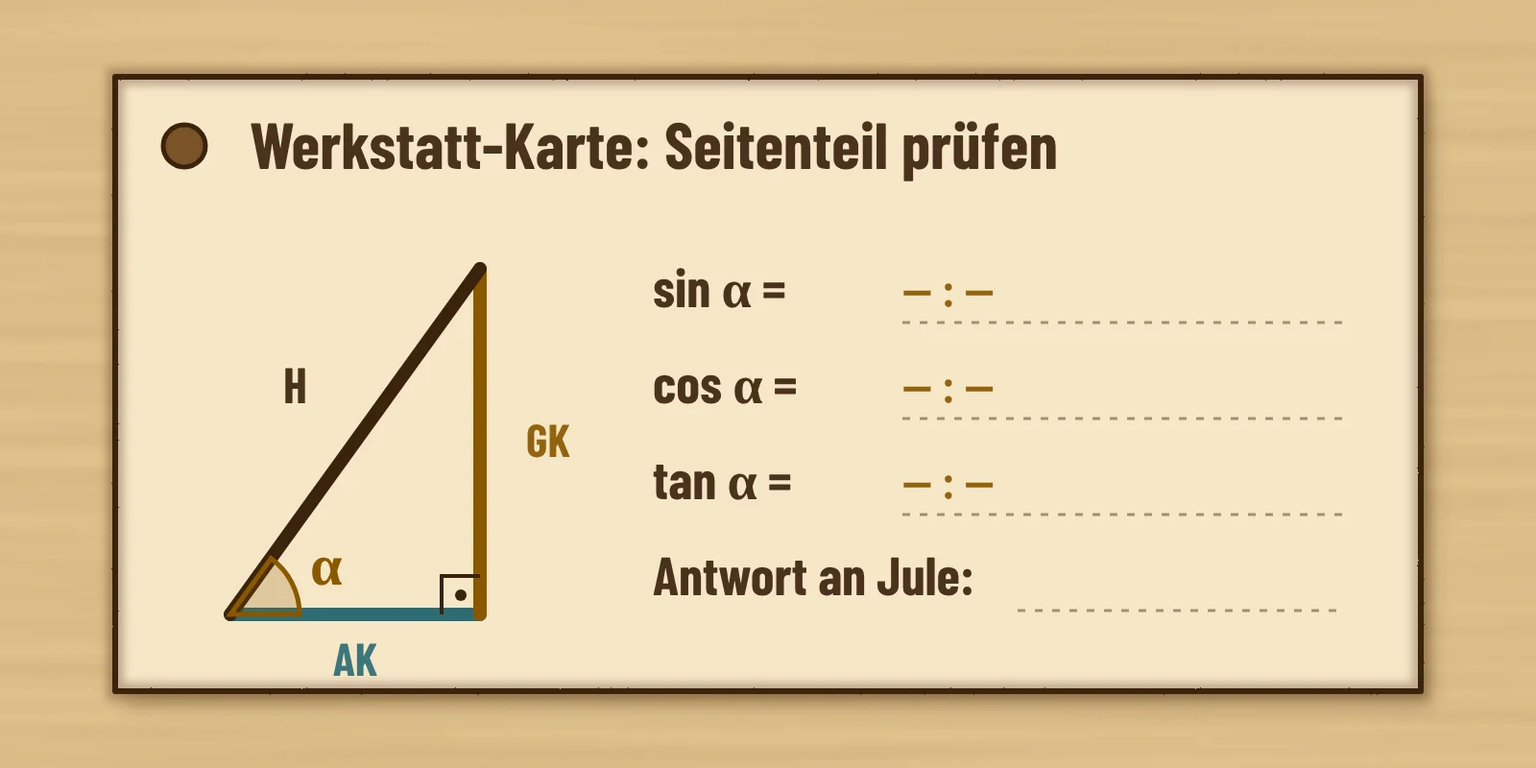
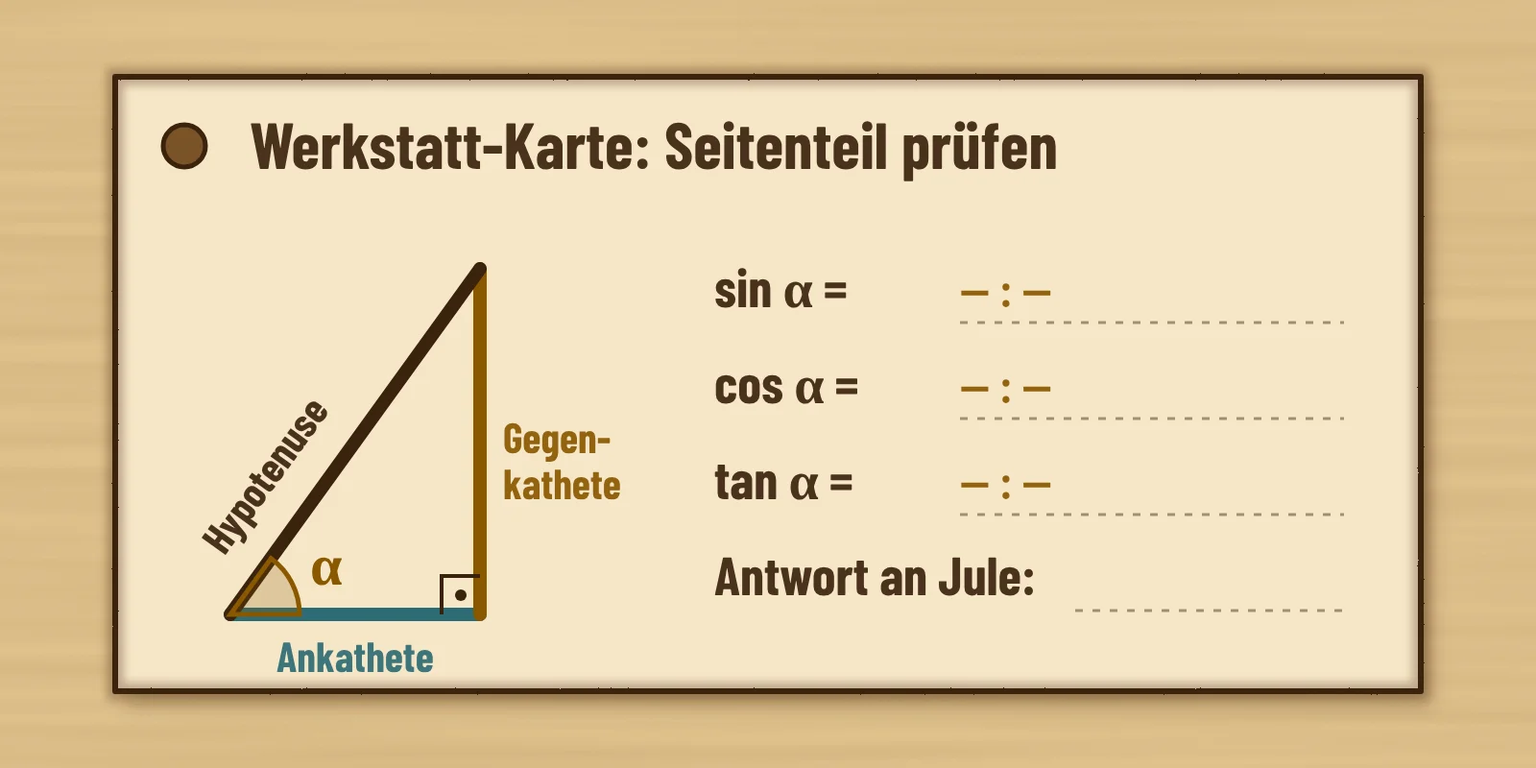
Lernsituationen: Begriffe ausformulieren, Formeln mit Abstand, Video nicht am Beispiel
Handyständer: Sinus, Kosinus und Tangens werden im Beispiel in ganzen Sätzen eingeführt,
Formeln, Hilfen, Lösungswege und Werkstatt-Karte ohne Abkürzungen GK, AK, H; größere Skizze.
Alle Lernsituationen (seiten.css): mehr Abstand zwischen abgesetzten Formeln in Beispielen
und Merkkästen ohne Scrollleiste, Lernvideo mit Abstand unter dem Rechenbeispiel.
Skill und CLAUDE.md um die Regeln ergänzt.

Claude-Session: https://claude.ai/code/session_01Aw7YPEBbVJPrNvzUyhnjTJ

diff --git a/mathe-trainer/src/pages/trigonometrie/sinus_kosinus_tangens_einstieg/HandystaenderEinstieg.tsx b/mathe-trainer/src/pages/trigonometrie/sinus_kosinus_tangens_einstieg/HandystaenderEinstieg.tsx
@@ -16,7 +16,7 @@ import {
 } from '../../lineare_funktionen/lernsituation_kit/seiten';
 import { Bilanz } from '../../lineare_funktionen/lernsituation_kit/punkte';
 import { Kriterien, standardKriterien } from '../../finanzmathe/zins_kit/zins_kit';
-import Dreieck, { RollenLegende } from './Dreieck';
+import Dreieck from './Dreieck';
 import LaserVorschau, { istTreffer, winkelVon, type Versuch } from './LaserVorschau';
 import ZuschnittSpiel from './ZuschnittSpiel';
 import titelBild from './bilder/handystaender-titel.webp';
@@ -32,7 +32,7 @@ import './handystaender.css';
 // In „Problem lösen“ prüfen sie Jules Prototyp ohne Geodreieck: drei Seitenverhältnisse bilden, benennen und mit dem Taschenrechner vergleichen.
 // Aha: Nicht die Größe bestimmt den Winkel, sondern das Seitenverhältnis. Genau dieses Verhältnis liefert der Taschenrechner:
 // tan(70°) ≈ 2,75 ist das Verhältnis Rücken : Boden, das in der Vorschau gesucht war.
-// Lernprodukt analog: Werkstatt-Karte im Heft (beschriftete Skizze des Seitenteils mit H, GK, AK, drei Verhältnissen und Antwort an Jule).
+// Lernprodukt analog: Werkstatt-Karte im Heft (beschriftete Skizze des Seitenteils mit Hypotenuse, Gegenkathete, Ankathete, drei Verhältnissen und Antwort an Jule).
 // Identität: Themenfarbe Ocker (Sperrholz), Symbol Tablet, Titelbild Handyständer mit Bauteilen, Leitobjekt das Seitenteil des Ständers.
 // Bildwelt Bauplan / Lasercut: Titelbild und Sachbilder sind gerenderte WebP-Dateien aus bilder-quelle/handystaender-*.bild.html
 // (Bausteine in bilder-quelle/_lasercut.js); Vorschau, Skizzen und Spiel bleiben Inline-SVG.
@@ -77,36 +77,62 @@ const BSP_SCHRITTE: { title: ReactNode; body: ReactNode }[] = [
   {
     title: (
       <>
-        Seiten vom Winkel <M>\alpha</M> aus benennen
+        Die Seiten vom Winkel <M>\alpha</M> aus benennen
       </>
     ),
     body: (
       <>
+        <p>
+          In einem rechtwinkligen Dreieck haben die Seiten feste Namen. Welche Seite welchen Namen bekommt, hängt davon ab, von welchem
+          Winkel aus du schaust. Hier schaust du vom Winkel <M>\alpha</M> unten vorne aus:
+        </p>
         <div className="hs-skizze hs-skizze-klein">
           <Dreieck
             boden={8}
             ruecken={15}
             rollen
-            labels={{ boden: 'AK = 8 cm', ruecken: 'GK = 15 cm', schraeg: 'H = 17 cm' }}
+            labels={{ boden: 'Ankathete 8 cm', ruecken: 'Gegenkathete 15 cm', schraeg: 'Hypotenuse 17 cm' }}
+            breite={620}
             label="Seitenteil 8 cm, 15 cm, 17 cm. Vom Winkel Alpha aus: Hypotenuse 17 cm, Gegenkathete 15 cm, Ankathete 8 cm."
           />
         </div>
-        <RollenLegende winkel="α" />
-        <p>
-          Die Hypotenuse liegt dem rechten Winkel gegenüber: die Auflage, 17 cm. Die Gegenkathete liegt <M>\alpha</M> gegenüber: der Rücken,
-          15 cm. Die Ankathete liegt an <M>\alpha</M> an: der Boden, 8 cm.
-        </p>
+        <ul className="hs-begriffe">
+          <li>
+            Die <strong>Hypotenuse</strong> ist die längste Seite. Sie liegt dem rechten Winkel gegenüber: die Auflage mit 17 cm.
+          </li>
+          <li>
+            Die <strong>Gegenkathete</strong> liegt dem Winkel <M>\alpha</M> gegenüber: der Rücken mit 15 cm.
+          </li>
+          <li>
+            Die <strong>Ankathete</strong> liegt direkt am Winkel <M>\alpha</M> an, ist aber nicht die Hypotenuse: der Boden mit 8 cm.
+          </li>
+        </ul>
       </>
     ),
   },
   {
-    title: 'Die drei Seitenverhältnisse bilden',
+    title: 'Drei Seiten durcheinander teilen',
     body: (
       <>
-        <p>Jedes Verhältnis hat einen eigenen Namen:</p>
-        <MB>{'\\sin(\\alpha) = \\dfrac{\\text{GK}}{\\text{H}} = \\dfrac{15}{17} \\approx 0{,}88'}</MB>
-        <MB>{'\\cos(\\alpha) = \\dfrac{\\text{AK}}{\\text{H}} = \\dfrac{8}{17} \\approx 0{,}47'}</MB>
-        <MB>{'\\tan(\\alpha) = \\dfrac{\\text{GK}}{\\text{AK}} = \\dfrac{15}{8} \\approx 1{,}88'}</MB>
+        <p>
+          Teilst du zwei Seiten durcheinander, bekommst du ein Seitenverhältnis. In der Vorschau hast du schon eines benutzt: Rücken durch
+          Boden. Im rechtwinkligen Dreieck sind drei Verhältnisse so wichtig, dass sie eigene Namen haben:{' '}
+          <strong>Sinus</strong>, <strong>Kosinus</strong> und <strong>Tangens</strong>. Man schreibt sie kurz <M>{'\\sin'}</M>,{' '}
+          <M>{'\\cos'}</M> und <M>{'\\tan'}</M>. <M>{'\\sin(\\alpha)'}</M> liest man „Sinus von Alpha“.
+        </p>
+        <p>
+          Der <strong>Sinus</strong> von <M>\alpha</M> ist die Gegenkathete geteilt durch die Hypotenuse:
+        </p>
+        <MB>{'\\sin(\\alpha) = \\dfrac{\\text{Gegenkathete}}{\\text{Hypotenuse}} = \\dfrac{15}{17} \\approx 0{,}88'}</MB>
+        <p>
+          Der <strong>Kosinus</strong> von <M>\alpha</M> ist die Ankathete geteilt durch die Hypotenuse:
+        </p>
+        <MB>{'\\cos(\\alpha) = \\dfrac{\\text{Ankathete}}{\\text{Hypotenuse}} = \\dfrac{8}{17} \\approx 0{,}47'}</MB>
+        <p>
+          Der <strong>Tangens</strong> von <M>\alpha</M> ist die Gegenkathete geteilt durch die Ankathete. Das ist genau dein Verhältnis
+          Rücken durch Boden aus der Vorschau:
+        </p>
+        <MB>{'\\tan(\\alpha) = \\dfrac{\\text{Gegenkathete}}{\\text{Ankathete}} = \\dfrac{15}{8} \\approx 1{,}88'}</MB>
       </>
     ),
   },
@@ -115,8 +141,8 @@ const BSP_SCHRITTE: { title: ReactNode; body: ReactNode }[] = [
     body: (
       <>
         <p>
-          Stelle den Taschenrechner auf Grad (Anzeige D oder DEG). Die Tasten sin, cos und tan liefern dir für jeden Winkel das passende
-          Verhältnis, z. B. für <M>{'62^\\circ'}</M>:
+          Der Taschenrechner kennt diese drei Verhältnisse für jeden Winkel. Stelle ihn auf Grad (Anzeige D oder DEG). Tippe dann zum
+          Beispiel die Taste sin und danach 62 ein. Für <M>{'62^\\circ'}</M> zeigt er:
         </p>
         <MB>{'\\sin(62^\\circ) \\approx 0{,}88'}</MB>
         <MB>{'\\cos(62^\\circ) \\approx 0{,}47'}</MB>
@@ -134,10 +160,10 @@ const BSP_SCHRITTE: { title: ReactNode; body: ReactNode }[] = [
 const LOESUNG_KERN = (
   <Loesungsweg
     schritte={[
-      { titel: 'Seiten von α aus benennen', text: 'Hypotenuse H = 17,6 cm (Auflage), Gegenkathete GK = 16,5 cm (Rücken), Ankathete AK = 6 cm (Boden).' },
-      { titel: 'Sinus bilden', tex: '\\sin(\\alpha) = \\dfrac{\\text{GK}}{\\text{H}} = \\dfrac{16{,}5}{17{,}6} \\approx 0{,}94' },
-      { titel: 'Kosinus bilden', tex: '\\cos(\\alpha) = \\dfrac{\\text{AK}}{\\text{H}} = \\dfrac{6}{17{,}6} \\approx 0{,}34' },
-      { titel: 'Tangens bilden', tex: '\\tan(\\alpha) = \\dfrac{\\text{GK}}{\\text{AK}} = \\dfrac{16{,}5}{6} = 2{,}75' },
+      { titel: 'Seiten von α aus benennen', text: 'Hypotenuse 17,6 cm (Auflage), Gegenkathete 16,5 cm (Rücken), Ankathete 6 cm (Boden).' },
+      { titel: 'Sinus bilden', tex: '\\sin(\\alpha) = \\dfrac{\\text{Gegenkathete}}{\\text{Hypotenuse}} = \\dfrac{16{,}5}{17{,}6} \\approx 0{,}94' },
+      { titel: 'Kosinus bilden', tex: '\\cos(\\alpha) = \\dfrac{\\text{Ankathete}}{\\text{Hypotenuse}} = \\dfrac{6}{17{,}6} \\approx 0{,}34' },
+      { titel: 'Tangens bilden', tex: '\\tan(\\alpha) = \\dfrac{\\text{Gegenkathete}}{\\text{Ankathete}} = \\dfrac{16{,}5}{6} = 2{,}75' },
       { titel: 'Mit dem Taschenrechner vergleichen', tex: '\\tan(70^\\circ) \\approx 2{,}75', text: 'Auch sin(70°) ≈ 0,94 und cos(70°) ≈ 0,34 passen. Der Prototyp hat also 70°.' },
     ]}
   />
@@ -333,9 +359,12 @@ export default function HandystaenderEinstieg({ onBack, onPractice }: { onBack: 
             <p className="sl-fokus-titel">Deine Aufgabe: Prüfe den Prototyp ohne Geodreieck</p>
             <p>
               Jule hat selbst ein Seitenteil geschnitten: Boden 6 cm, Rücken 16,5 cm, Auflage 17,6 cm. Ein Geodreieck gibt es in der Werkstatt
-              nicht. Bilde in deinem Heft zum Winkel <M>\alpha</M> die drei Seitenverhältnisse Sinus, Kosinus und Tangens (auf zwei
-              Nachkommastellen) und vergleiche sie mit den Werten des Taschenrechners für <M>{'70^\\circ'}</M>. Hat der Prototyp die gewünschten{' '}
-              <M>{'70^\\circ'}</M>?
+              nicht. Finde trotzdem heraus, ob das Seitenteil die gewünschten <M>{'70^\\circ'}</M> hat.
+            </p>
+            <p>
+              Das Werkzeug dafür lernst du im Beispiel unten kennen: drei Seitenverhältnisse mit den Namen Sinus, Kosinus und Tangens. Berechne
+              sie in deinem Heft für Jules Prototyp (auf zwei Nachkommastellen) und vergleiche sie mit den Werten, die der Taschenrechner für{' '}
+              <M>{'70^\\circ'}</M> anzeigt.
             </p>
           </div>
           <figure className="sl-foto">
@@ -372,8 +401,8 @@ export default function HandystaenderEinstieg({ onBack, onPractice }: { onBack: 
                     <>Gehe vor wie im Beispiel: Benenne zuerst vom Winkel <M>\alpha</M> aus Hypotenuse, Gegenkathete und Ankathete.</>,
                     <>
                       Die Auflage (17,6 cm) ist die Hypotenuse, der Rücken (16,5 cm) liegt <M>\alpha</M> gegenüber, der Boden (6 cm) liegt an{' '}
-                      <M>\alpha</M> an. Dann gilt <M>{'\\sin = \\frac{\\text{GK}}{\\text{H}}'}</M>, <M>{'\\cos = \\frac{\\text{AK}}{\\text{H}}'}</M>,{' '}
-                      <M>{'\\tan = \\frac{\\text{GK}}{\\text{AK}}'}</M>.
+                      <M>\alpha</M> an. Sinus ist Gegenkathete durch Hypotenuse, Kosinus ist Ankathete durch Hypotenuse, Tangens ist
+                      Gegenkathete durch Ankathete.
                     </>,
                     <>
                       <M>{'\\sin(\\alpha) = \\frac{16{,}5}{17{,}6}'}</M>, <M>{'\\cos(\\alpha) = \\frac{6}{17{,}6}'}</M>,{' '}
@@ -418,12 +447,12 @@ export default function HandystaenderEinstieg({ onBack, onPractice }: { onBack: 
                 src={karteBild}
                 width={800}
                 height={400}
-                alt="Eine Werkstatt-Karte aus Holz: links die Skizze eines rechtwinkligen Dreiecks mit Winkel Alpha und den farbig beschrifteten Seiten H, GK und AK, rechts angefangene Zeilen sin Alpha gleich, cos Alpha gleich, tan Alpha gleich und Antwort an Jule."
+                alt="Eine Werkstatt-Karte aus Holz: links die Skizze eines rechtwinkligen Dreiecks mit Winkel Alpha und den farbig beschrifteten Seiten Hypotenuse, Gegenkathete und Ankathete, rechts angefangene Zeilen sin Alpha gleich, cos Alpha gleich, tan Alpha gleich und Antwort an Jule."
               />
             </figure>
             <p className="sl-text">
-              Gestalte in deinem Heft eine Werkstatt-Karte zu Jules Prototyp. Zeichne das Seitenteil, markiere <M>\alpha</M> und beschrifte H, GK
-              und AK in drei Farben. Schreibe Sinus, Kosinus und Tangens als Bruch und als Dezimalzahl dazu, daneben die Werte des Taschenrechners
+              Gestalte in deinem Heft eine Werkstatt-Karte zu Jules Prototyp. Zeichne das Seitenteil, markiere <M>\alpha</M> und beschrifte Hypotenuse,
+              Gegenkathete und Ankathete in drei Farben. Schreibe Sinus, Kosinus und Tangens als Bruch und als Dezimalzahl dazu, daneben die Werte des Taschenrechners
               für <M>{'70^\\circ'}</M>, und beantworte Jules Frage.
             </p>
             <Aufklappbar label="Satzanfänge ansehen" icon="fa-comment-dots">
@@ -448,6 +477,7 @@ export default function HandystaenderEinstieg({ onBack, onPractice }: { onBack: 
                     ruecken={3}
                     rollen
                     labels={{ boden: 'Ankathete', ruecken: 'Gegenkathete', schraeg: 'Hypotenuse' }}
+                    breite={520}
                     label="Rechtwinkliges Dreieck mit Winkel Alpha: Hypotenuse gegenüber dem rechten Winkel, Gegenkathete gegenüber Alpha, Ankathete an Alpha."
                   />
                 </div>
@@ -577,7 +607,7 @@ export default function HandystaenderEinstieg({ onBack, onPractice }: { onBack: 
               solution={
                 <Loesungsweg
                   schritte={[
-                    { titel: 'Seiten von α aus benennen', text: 'H = 25 cm, GK = 7 cm (Rücken), AK = 24 cm (Boden).' },
+                    { titel: 'Seiten von α aus benennen', text: 'Hypotenuse 25 cm, Gegenkathete 7 cm (Rücken), Ankathete 24 cm (Boden).' },
                     { titel: 'Sinus', tex: '\\sin(\\alpha) = \\dfrac{7}{25} = 0{,}28' },
                     { titel: 'Kosinus', tex: '\\cos(\\alpha) = \\dfrac{24}{25} = 0{,}96' },
                     { titel: 'Tangens', tex: '\\tan(\\alpha) = \\dfrac{7}{24} \\approx 0{,}29' },

diff --git a/mathe-trainer/src/pages/trigonometrie/sinus_kosinus_tangens_einstieg/bilder-quelle/handystaender-karte.bild.html b/mathe-trainer/src/pages/trigonometrie/sinus_kosinus_tangens_einstieg/bilder-quelle/handystaender-karte.bild.html
@@ -17,13 +17,13 @@ const A = [120, 320], B = [250, 320], C = [250, 140];
 g += `<path d="M${A} L${B}" stroke="#2c6b74" stroke-width="7" stroke-linecap="round"/><path d="M${B} L${C}" stroke="#8a5800" stroke-width="7" stroke-linecap="round"/><path d="M${C} L${A}" stroke="#3b230e" stroke-width="7" stroke-linecap="round"/>`;
 g += LC.winkel(A[0], A[1], 36, 0, 54, 'α', LC.A, 56);
 g += LC.rechter(B[0], B[1], -1, -1, 20);
-g += LC.gravur(185, 352, 'AK', 24, 'middle', '#2c6b74', 700) + LC.gravur(274, 238, 'GK', 24, 'start', '#8a5800', 700) + LC.gravur(160, 210, 'H', 26, 'end', '#3b230e', 700);
+g += LC.gravur(185, 350, 'Ankathete', 22, 'middle', '#2c6b74', 700) + LC.gravur(262, 236, 'Gegen-', 22, 'start', '#8a5800', 700) + LC.gravur(262, 260, 'kathete', 22, 'start', '#8a5800', 700) + LC.gravur(172, 214, 'Hypotenuse', 22, 'end', '#3b230e', 700, -54);
 // Zeilen
 const z = [['sin α =', '— : —'], ['cos α =', '— : —'], ['tan α =', '— : —'], ['Antwort an Jule:', '']];
 z.forEach(([k, v], i) => {
   const y = 160 + i * 50;
-  g += LC.gravur(340, y, k, 28, 'start', '#3b230e', 700) + LC.gravur(470, y, v, 26, 'start', '#8a5800', 600);
-  g += `<line x1="${i === 3 ? 530 : 470}" x2="700" y1="${y + 8}" y2="${y + 8}" stroke="#3b230e" stroke-opacity=".45" stroke-width="1.5" stroke-dasharray="4 5"/>`;
+  g += LC.gravur(372, y, k, 28, 'start', '#3b230e', 700) + LC.gravur(500, y, v, 26, 'start', '#8a5800', 600);
+  g += `<line x1="${i === 3 ? 560 : 500}" x2="700" y1="${y + 8}" y2="${y + 8}" stroke="#3b230e" stroke-opacity=".45" stroke-width="1.5" stroke-dasharray="4 5"/>`;
 });
 document.getElementById('bild').innerHTML = `<svg xmlns="http://www.w3.org/2000/svg" width="${W}" height="${H}" viewBox="0 0 ${W} ${H}">${g}</svg>`;
 </script></body></html>

diff --git a/mathe-trainer/src/pages/lineare_funktionen/lernsituation_kit/seiten.css b/mathe-trainer/src/pages/lineare_funktionen/lernsituation_kit/seiten.css
@@ -55,7 +55,11 @@
 .sl-seite .lp-ex.bk-panel { padding: 12px 18px; gap: 8px; }
 .sl-seite .lp-ex-prompt { gap: 6px; }
 .sl-seite .ls-heft { margin: 0; padding: 4px 10px; font-size: 14px; }
-.sl-seite .katex-display { margin: 0.15em 0; }
+.sl-seite .katex-display { margin: 0.45em 0; }
+/* Abgesetzte Formeln in Rechenbeispielen und Merkkästen: genug Luft zwischen untereinanderstehenden Brüchen, keine Scrollleiste */
+.sl-seite .lp-example span.katex-display,
+.sl-seite .lp-merke-body span.katex-display { margin: 0.75em 0; padding: 0.3em 0; overflow-y: hidden; }
+.sl-seite .lp-example-step-body { overflow-y: hidden; }
 .sl-seite .ls-rechnung { gap: 6px 8px; }
 @media (min-width: 700px) {
   .sl-seite .ls-options { display: grid; grid-template-columns: repeat(2, minmax(0, 1fr)); gap: 8px; }
@@ -166,6 +170,8 @@
 .sl-produkt .sl-abschnitt-titel i { color: var(--primary); }
 .sl-bonus .sl-abschnitt-titel i { color: var(--primary); }
 .sl-aufklappbar { display: flex; flex-direction: column; gap: 10px; }
+/* Aufgeklappter Inhalt: Rechenbeispiel und Lernvideo stehen mit deutlichem Abstand untereinander, das Video klebt nie am Kasten */
+.sl-aufklappbar-inhalt { display: flex; flex-direction: column; gap: 28px; }
 .sl-aufklappbar .bk-btn, .sl-wegwahl-knoepfe .bk-btn { min-height: 44px; }
 .sl-wegwahl { display: flex; flex-direction: column; gap: 10px; }
 .sl-wegwahl-knoepfe { display: flex; flex-wrap: wrap; gap: 8px; }

diff --git a/mathe-trainer/src/pages/trigonometrie/sinus_kosinus_tangens_einstieg/handystaender.css b/mathe-trainer/src/pages/trigonometrie/sinus_kosinus_tangens_einstieg/handystaender.css
@@ -1,8 +1,9 @@
 /* Lernsituation „Der Handyständer“ (Bauplan / Lasercut). Themenfarbe kommt über --primary aus thema, Bildwelt-Stile in bildwelten.css. */
 
 .hs-skizze { display: flex; justify-content: center; }
-.hs-skizze .hs-dreieck { width: 100%; max-width: 440px; height: auto; }
-.hs-skizze-klein .hs-dreieck { max-width: 380px; }
+.hs-skizze .hs-dreieck { width: 100%; height: auto; }
+.hs-begriffe { margin: 6px 0 0; padding-left: 22px; list-style: disc; display: flex; flex-direction: column; gap: 4px; }
+.lp-example-steps .hs-begriffe li { border-left: 0; padding: 0; animation: none; }
 .hs-dreieck text { font-family: var(--font-display, inherit); }
 .hs-legende { margin: 0; text-align: center; font-size: 17px; font-weight: 600; }
 
@@ -34,5 +35,5 @@
 @media (max-width: 480px) { .hs-tabelle { font-size: 15px; } .hs-tabelle th, .hs-tabelle td { padding: 5px 6px; } }
 
 .hs-spiel-frage { display: flex; flex-direction: column; align-items: center; gap: 6px; }
-.hs-spiel-frage .hs-dreieck { width: 100%; max-width: 420px; height: auto; }
+.hs-spiel-frage .hs-dreieck { width: 100%; height: auto; }
 .hs-spiel-frage p { margin: 0; font-size: 18px; }

diff --git a/mathe-trainer/src/pages/trigonometrie/sinus_kosinus_tangens_einstieg/Dreieck.tsx b/mathe-trainer/src/pages/trigonometrie/sinus_kosinus_tangens_einstieg/Dreieck.tsx
@@ -67,7 +67,7 @@ export default function Dreieck({
   const rA = Math.min(46, bw * 0.45);
   const rC = Math.min(40, rh * 0.3);
   return (
-    <svg viewBox={`0 0 ${W} ${H}`} role="img" aria-label={label} className="hs-dreieck">
+    <svg viewBox={`0 0 ${W} ${H}`} role="img" aria-label={label} className="hs-dreieck" style={{ maxWidth: W }}>
       {(winkel === 'alpha' || winkel === 'beide') && (
         <>
           <path d={bogen(A[0], A[1], rA, 0, alphaGrad)} fill="var(--primary)" fillOpacity=".18" stroke="var(--primary)" strokeWidth="2" />

diff --git a/mathe-trainer/docs/skills/lernsituationen/SKILL.md b/mathe-trainer/docs/skills/lernsituationen/SKILL.md
@@ -138,7 +138,7 @@ Wo es inhaltlich passt, probieren die SuS selbst Lösungen aus und bekommen sofo
 Alles auf einer Seite, **immer in dieser Reihenfolge** von oben nach unten:
 
 1. **Das Problem noch einmal oben** als einziger Fokus (`sl-fokus`): konkreter Arbeitsauftrag in eigenen Worten, was gegeben und was gesucht ist und in welcher Form das Ergebnis stehen soll. Darunter ein Bild zum Problem (Leitobjekt, Skizze oder Graph mit nur den gegebenen Größen, bei Umstellaufgaben die Formel mit markierter gesuchter Größe).
-2. **Beispielrechnung mit Lernvideo** (`BeispielMitVideo` aus `lernsituation_kit/seiten.tsx`): **ein** Knopf „Beispielrechnung mit Lernvideo ansehen“ (ohne Video: „Beispielrechnung ansehen“), **so breit wie die übrigen Elemente der Seite**. Aufgeklappt steht oben das ausgearbeitete Beispiel mit **anderen Zahlen**, Schritt für Schritt (`<Beispiel offen …/>`), **danach** das eingebettete Lernvideo (`video="…"`, lädt erst nach Antippen). Das Video steht immer **nach** dem Rechenbeispiel, nie davor. Die SuS entscheiden selbst, ob sie Video, Beispiel oder beides nutzen; beides ist kostenlos. Die Lernvideos sind meist schon bei den Übungsaufgaben des Themas verlinkt (z. B. `VideoButton url=…` oder eine `VIDEO`-Liste in der Übungsseite): Von dort übernehmen. Gibt es keines, der Lehrkraft am Ende als offenen Punkt nennen. Ein Rechenbeispiel vor der Problemdarstellung ist nicht erlaubt, auch nicht im Warm-up oder in Phase 2.
+2. **Beispielrechnung mit Lernvideo** (`BeispielMitVideo` aus `lernsituation_kit/seiten.tsx`): **ein** Knopf „Beispielrechnung mit Lernvideo ansehen“ (ohne Video: „Beispielrechnung ansehen“), **so breit wie die übrigen Elemente der Seite**. Aufgeklappt steht oben das ausgearbeitete Beispiel mit **anderen Zahlen**, Schritt für Schritt (`<Beispiel offen …/>`), **danach** das eingebettete Lernvideo (`video="…"`, lädt erst nach Antippen). Das Video steht immer **nach** dem Rechenbeispiel, nie davor. Zwischen Rechenbeispiel und Video steht ein deutlicher Abstand (seit 2026-11-07 automatisch über `.sl-aufklappbar-inhalt` in `seiten.css`, das Video klebt nie am Beispielkasten; nichts selbst nachbauen). Die SuS entscheiden selbst, ob sie Video, Beispiel oder beides nutzen; beides ist kostenlos. Die Lernvideos sind meist schon bei den Übungsaufgaben des Themas verlinkt (z. B. `VideoButton url=…` oder eine `VIDEO`-Liste in der Übungsseite): Von dort übernehmen. Gibt es keines, der Lehrkraft am Ende als offenen Punkt nennen. Ein Rechenbeispiel vor der Problemdarstellung ist nicht erlaubt, auch nicht im Warm-up oder in Phase 2.
 3. **„Vergleiche deine Ergebnisse“** (`Abschnitt` mit einer `CheckCard`): Die SuS rechnen im Heft und tippen nur ihre **Endergebnisse** in die Felder („Trage die Ergebnisse aus deinem Heft ein. Jedes Feld zeigt dir sofort, ob es stimmt.“). Die Felder sind als Fragen formuliert (z. B. „Wie viel Geld ist am Ende des 6. Jahres auf dem Konto, wenn …?“), keine Vorstrukturierung des Rechenwegs. Dazu drei gestufte `Hilfen`, `loesungNachFehler`. Es gibt **keine** Wahl „Selbst rechnen / Mit Lösungsschema“ mehr (`WegWahl` nicht mehr verwenden).
 4. **Keine Fehlersuche:** Unter dem Ergebnis-Abgleich steht **kein** Kasten „Fehlersuche: Wo steckt der Fehler?“ bzw. „Prüfe deine Zwischenergebnisse …“ mit Feldern für Zwischenergebnisse (die Komponente `Fehlersuche` gibt es nicht mehr, seit 2026-10-27). Wer einen Fehler hat, nutzt die gestuften `Hilfen` und den Lösungsweg nach dem Fehlversuch.
 5. **Entscheidung** (wenn die Situation eine verlangt), z. B. per Auswahl "Welches Angebot empfiehlst du?".
@@ -236,6 +236,8 @@ Ganz am Ende jeder Lernsituation wird ein kleines **mathematisches Spiel** freig
 
 ## Schreib- und Rechenkonventionen (Pflicht)
 
+- **Neue Begriffe ausformulieren (seit 2026-11-07):** Eine Lernsituation führt ein Thema ein. Die SuS kennen die neuen Begriffe noch nicht (z. B. Sinus, Kosinus, Tangens). Das Rechenbeispiel erklärt jeden neuen Begriff zuerst in ganzen Sätzen („Der Sinus von α ist die Gegenkathete geteilt durch die Hypotenuse:“), erst danach folgt die Formel. In Formeln, Skizzen, Hilfen und Lösungswegen der Lernsituation stehen die Begriffe ausgeschrieben, keine Abkürzungen wie GK, AK, H. Auch der Auftrag in „Problem lösen“ setzt den neuen Begriff nicht als bekannt voraus („Das Werkzeug dafür lernst du im Beispiel kennen: …“).
+- **Formeln mit Luft:** Mehrere abgesetzte Formeln mit Brüchen stehen nie dicht gedrängt untereinander. Besser: je Formel ein kurzer Satz davor. Die Abstände der abgesetzten Formeln kommen aus `seiten.css` (`.sl-seite .lp-example span.katex-display`, Merkkasten); keine eigenen Regeln mit `margin: 0` für `.katex-display` schreiben. Auf dem Screenshot prüfen, dass sich Brüche nicht berühren und keine Scrollleiste erscheint.
 - **KaTeX für alles Mathematische**, auch im Fließtext, in Titeln, Hilfen und Rückmeldungen: Punkte `S(2 \mid 3)`, Variablen `a`, Gleichungen, Zahlen mit Rechenzeichen. Keine Formeln als Klartext ("x²", "(2|3)", "x_S"). Dezimalkomma als `0{,}25`, echtes Minus.
 - **Funktionsschreibweise:** Funktionsgleichungen immer mit `y = …`, nicht `f(x) = …`. Bei mehreren Funktionen steht der Name im Text davor ("Gerade 1: y = …", "Sprungbahn: y = …"). Funktionswerte als "x einsetzen": "x = 4: y = −0,25 · 4² + 4 + 2 = 2" statt f(4). In Feldern "y =", in Tabellenköpfen "y". Gleichsetzen heißt "die Terme gleichsetzen".
 - **Scheitelform** als `y = a(x − x_S)² + y_S` (nicht mit d und e).
@@ -472,6 +474,7 @@ Anforderungen an einen guten Kontext:
 - [ ] Genau vier Phasen in fester Reihenfolge, **jede auf genau einer Seite**: Warm-up, Problem erkennen, Problem lösen, Wissen prüfen und vertiefen.
 - [ ] Das Warm-up hat mindestens 5 Aufgaben, alle in `pflicht`, jede sichtbar nummeriert mit „a) Kurzname“, „b) …“ (`title` der Karte).
 - [ ] Das Lernvideo des Themas (aus den Übungsaufgaben) ist in `BeispielMitVideo` eingebettet; gibt es keines, ist es als offener Punkt genannt.
+- [ ] Neue Begriffe sind im Rechenbeispiel in ganzen Sätzen eingeführt, keine Abkürzungen in Formeln; abgesetzte Formeln haben genug Abstand (Screenshot), das Video steht mit Abstand unter dem Beispiel.
 - [ ] Nichts wird geprüft, bevor es erarbeitet wurde.
 - [ ] Keine Austausch-Phase, keine Stopp-Kästen, kein "Vergleicht eure Wege", kein "So haben andere gedacht".
 - [ ] Seitenansicht mit Startbox (Titelbild, Name, Heft-Bestätigung); "Weiter" erst, wenn alle Pflichtaufgaben der Phase gelöst sind (`pflicht`, `fertig.teil`); danach steht "Weiter zu …" auch am Seitenende (im Test geprüft).

diff --git a/mathe-trainer/CLAUDE.md b/mathe-trainer/CLAUDE.md
@@ -95,6 +95,7 @@ bleiben Inline-SVG. Beispielquellen: `docs/skills/lernsituationen/bildwelten/`. 
 Eingabefelder in Lernsituationen prüfen sich selbst (richtig sofort grün, falsch nach kurzer Tipp-Pause oder beim Verlassen rot),
 ohne Prüfen-Button: `CheckCard` macht das automatisch, eigene Eingabe-Bausteine nutzen `useLiveCheck` aus `lernsituation_kit/kit.tsx`.
 Nur Auswahlaufgaben (`McCard`) behalten „Prüfen“.
+Neue Begriffe (seit 2026-11-07): Das Rechenbeispiel erklärt jeden neuen Begriff zuerst in ganzen Sätzen, Formeln mit ausgeschriebenen Begriffen statt Abkürzungen (kein GK, AK, H); abgesetzte Formeln mit Abstand (kommt aus `seiten.css`), das Lernvideo steht mit Abstand unter dem Beispiel (`.sl-aufklappbar-inhalt`).
 Warm-up: mindestens 5 kurze Aufgaben, alle Pflicht, jede sichtbar nummeriert (Kartentitel „a) Kurzname“, „b) …“; `seiten.css` zeigt die Titel auf der Warm-up-Seite an). Beim Rechenbeispiel in „Problem lösen“ ist immer das passende Lernvideo eingebettet
 (`BeispielMitVideo` mit `video`), falls es eines gibt; die Videos sind meist schon bei den Übungsaufgaben des Themas verlinkt und werden von dort übernommen.
 Die Kriterien des Handlungsprodukts („Ist dein … vollständig?“) sind seit 2026-11-05 immer genau drei kurze feste Punkte
